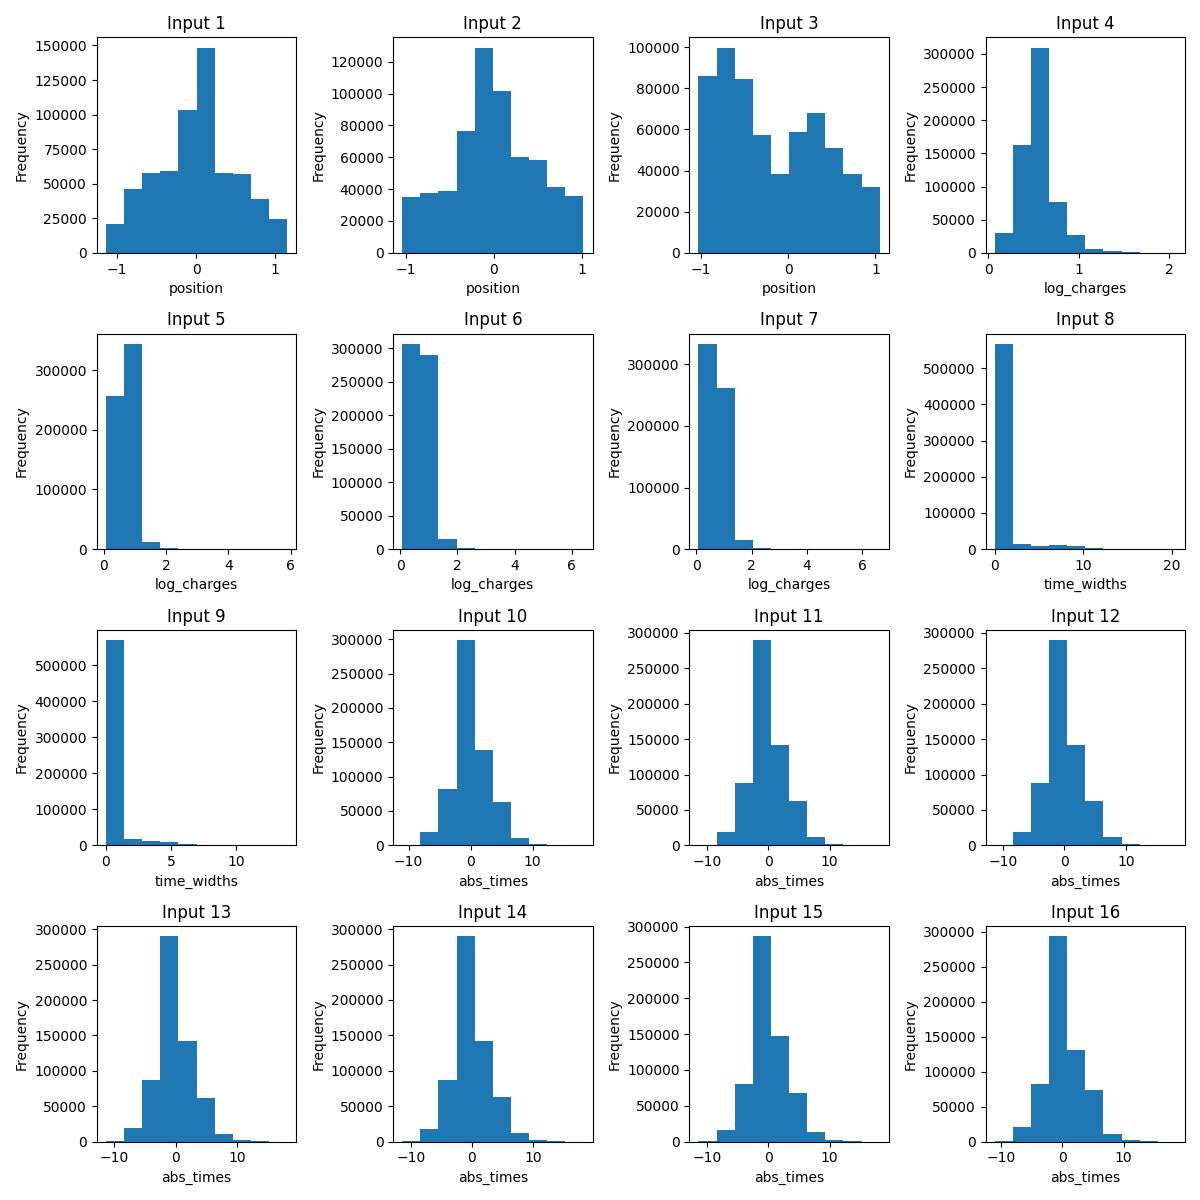
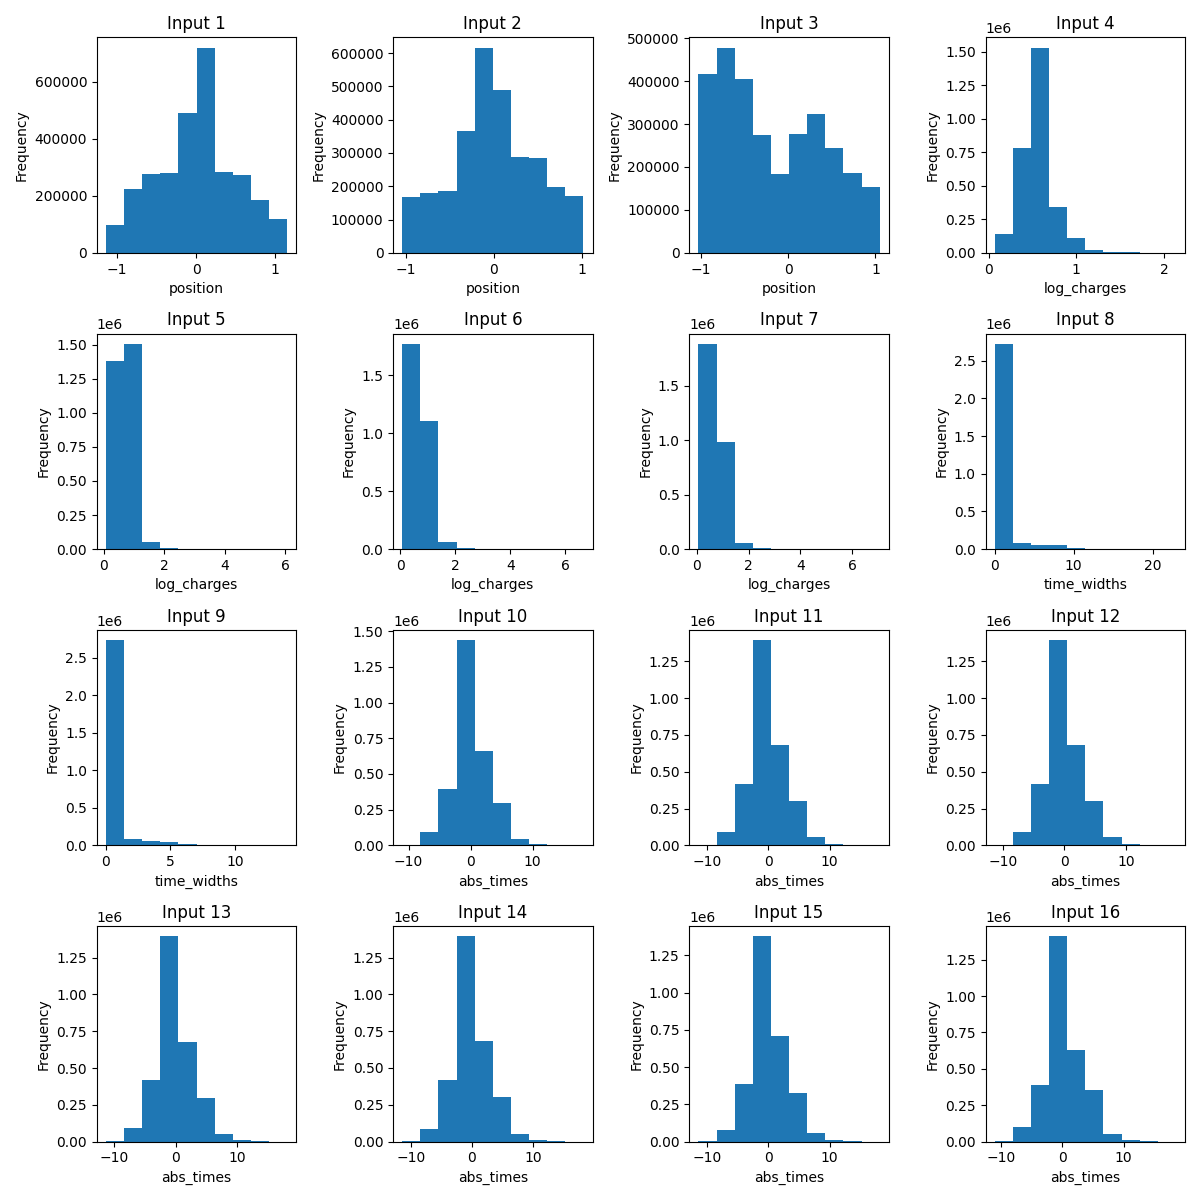
input spectrum with whole set

diff --git a/reconstruction/transformer-encoder/examples/dataset/check_input_spectrum.py b/reconstruction/transformer-encoder/examples/dataset/check_input_spectrum.py
@@ -34,8 +34,8 @@ with open(feature_indices_file_path, "r") as file:
     feature_indices = yaml.safe_load(file)
 
 # save all the inputs
-# n_events = len(dataset)
-n_events = 10000
+n_events = len(dataset)
+# n_events = 10000
 inputs = [[] for i in range(16)]
 for i in range(len(dataset)):
     data, label = dataset[i]
